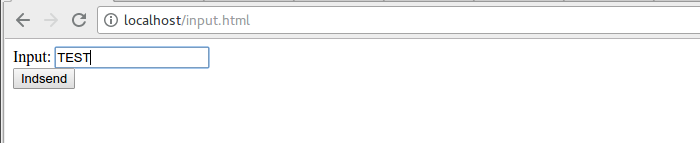
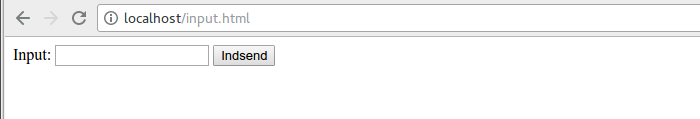
1

diff --git a/programmering/php04_valg_og_funktioner.html b/programmering/php04_valg_og_funktioner.html
@@ -1,0 +1,233 @@
+<!DOCTYPE html>
+<html lang="en">
+<head>
+  <title>Vidas.dk</title>
+  <meta charset="utf-8">
+  <meta name="viewport" content="width=device-width, initial-scale=1">
+  
+  <link href='http://fonts.googleapis.com/css?family=Ubuntu+Mono|Ubuntu|Ubuntu+Condensed' rel='stylesheet' type='text/css'>
+
+  <link rel="stylesheet" href="../css/bootstrap.min.css">
+  <link rel="stylesheet" href="../css/jquery-ui.min.css">
+  <link rel="stylesheet" href="../css/jquery.tocify.css">
+  <link rel="stylesheet" href="../css/style_new.css" />
+<!-- Scripts in bottom to speed up pageload-->
+ 
+
+</head>
+<body>
+	
+	
+<div class="container-fluid">
+
+<div class="row-fluid">
+	
+<div class="col-sm-3">
+	
+	<div id="toc">
+	
+		<div id="toc_headline"></div>
+	
+	</div>
+
+</div><!-- Start slut 1. kolonne - TOC -->
+	
+<div class="col-sm-9">
+	
+	<img class="p25" src="images/PHP-logo.svg" alt="" title="" />
+	
+	<div class="title">Valg og funktioner</div>
+
+<h1>Valg</h1>
+
+<p>Når vi skal have PHP til at reagere på forskellige tilfælde (conditions), kan vi anvende 3 forskellige tilgange:</p>
+
+<ul class="none">
+	<li>Case-struktur</li>
+	<li>if/else-struktir</li>
+</ul>
+
+<p>Herunder vil jeg vise hvordan de anvendes i en simpel situation, hvor en brugers svar skal bruges. Konkret skal brugeren svare på om han er en mand eller kvinde.  Der skal svaret <span class="inl_cmd">1</span> for mand og <span class="inl_cmd">2</span> for kvinde.</p>
+
+	
+<h2>Switch</h2>
+
+<p>Når man sætter betingelserne op på denne måde opretter man en case for hver situation. Hvis a så ..., hvis b så ..., hvis c så ... osv. Lad os se et eksempel:</p>
+
+<pre><code class="php">
+&lt;?php
+
+$input = $_GET["input"];
+
+switch ($input) {
+	case "1":
+		echo "Du er en dreng";
+		break;
+	case "2":
+		echo "Du er en pige";
+		break;
+	default:
+		echo "Du har vist skrevet forkert";
+
+	}
+
+?>
+</code>
+</pre>
+
+<p>Inde i switchen (kontakten) har vi oprettet 3 cases. En hvor man er en dreng, en hvor man er en pige og en hvor man har skrevet forkert.</p>
+
+<p>Læg mærke til at der kommer et <span class="inl_cmd">break</span> inde i hver case. Et <span class="inl_cmd">break</span> gør, at den del af programmet der kører lige nu bliver afbrudt. I dette tilfælde switch()</p>
+
+<p>Denne måde at kode på kan altså grundlæggende skrives som</p>
+
+<pre>
+switch (** det som undersøges **) {
+
+	case ** betingelse 1 **:
+		** gør noget **
+		break;
+
+	case ** betingelse 2 **:
+		** gør noget andet**
+		break;
+	
+	.
+	.
+	.
+
+	default:
+		** gør noget tredie **
+
+	}
+?>
+</pre>
+
+<p>Koden går altså ind og efterprøver om den enkelte case er sand eller ej. Vi kan sætte lige så mange cases på som vi har behov for, blot den sidste er <span class="inl_cmd">default</span>.</p>
+
+<p>Fordelen ved denne metode er overblikket</p>	
+	
+<h2>If/else</h2>
+
+<p>En anden måde at gøre det samme er ved hjælp af en if/else struktur. Den samme problemstilling som ovenfor vil se ud som her:</p>
+
+<pre><code class="php">
+&lt;?php
+
+$input = $_GET["input"];
+		
+if ($input == 1) {
+	echo "Det er en dreng";
+	} 
+	elseif ($input == 2) {
+		echo "Det er en pige";
+		}
+
+	else {
+		echo "du har vist skrevet forkert";
+		}
+
+?>
+</code>
+</pre>
+
+<p>Egentlig er tankegangen den samme her, men læg mærke til at vi ikke skal <span class="inl_cmd">breake</span> funktionen. Det gør den af sig selv.</p>
+
+<p>Vi kan altså opstille if/else på følgende måde:</p>
+
+<pre><code class="php">
+if (betingelse_1) { 
+	** Gør noget **}<br />
+	elseif (betingelse_2) {
+		** Gør noget andet **; }<br />
+	.
+	.
+	.
+	
+	else {
+		** Gør noget tredie **; }	
+</code>
+</pre>
+
+<p>Koden går også her ind og efterprøver om den enkelte betingelse er sand eller ej. Vi kan sætte lige så mange <span class="inl_cmd">elseif</span> på som vi har behov for, blot den sidste er en <span class="inl_cmd">else</span>.</p>
+
+<h2>Indlejring</h2>
+
+<p>Man kan også indlejre dem i hinanden i lige så mange lag som man vil. Man kan have:</p>
+
+<ul class="none">
+	<li>swithes i swithes</li>
+	<li>switches i if/else</li>
+	<li>if/else i switches</li>
+</ul>
+
+<p>En analogi kan være et bibliotek - med bogreoler - med bøger - med sider - med ord - med bogstaver.</p>
+
+<p>Det eneste man skal huske på er, at det skal give mening. For man risikerer at lave koden så kompleks at man ikke kan overskue den mere. Gør ikke koden mere kompleks end andre også kan sætte sig ind i den.</p>
+
+<h2>Cases eller if/else</h2>
+
+<p>Det afgørende handler om overblik og effektivitet. Generelt vil jeg anbefale at man anvender if/else bla. fordi der er mindre skrive arbejde i den, men især fordi den mere logisk tvinger os til at opdele det vi arbejder med.</p>
+
+
+
+<h1>Funktioner</h1>
+	
+</div><!-- end: col-md-9 -->
+
+<footer>
+
+	<p><a rel="license" href="http://creativecommons.org/licenses/by-nc-sa/4.0/"><img alt="Creative Commons licens" src="https://i.creativecommons.org/l/by-nc-sa/4.0/88x31.png" /></a>Indholdet på Vidas.dk er licenseret under <a rel="license" href="http://creativecommons.org/licenses/by-nc-sa/4.0/">CC BY-NC-SA 4.0</a> og er skrevet af Thomas Jensen. (<a href="../hvem_er_jeg.html" target="_blank">Læs mere</a>)</p>
+
+</footer>
+	
+	
+</div><!-- end: row-fluid -->
+
+</div> <!-- end: container-fluid -->
+
+
+<!-- SCRIPT SECTION -->
+<script type="text/javascript" src="../js/jquery.min.js"></script>
+<script type="text/javascript" src="../js/jquery-ui.min.js"></script>
+<script type="text/javascript" src="../js/jquery.tocify.min.js"></script>
+<script type="text/javascript" src="../js/bootstrap.min.js"></script>
+
+<!-- PRETTYFY-->
+<script src="https://cdn.rawgit.com/google/code-prettify/master/loader/run_prettify.js"></script>
+
+
+<!-- HIGHLIGHT -->
+	<script src="../js/highlight.pack.js" type="text/javascript"></script>
+	<script>hljs.initHighlightingOnLoad();</script>
+
+<!-- MATHJAX -->
+<script type="text/javascript" 
+	src="https://cdn.mathjax.org/mathjax/latest/MathJax.js?config=TeX-MML-AM_CHTML">
+</script>
+
+<script type="text/x-mathjax-config">
+MathJax.Hub.Config({
+  displayAlign: "left",
+  displayIndent: "0em"
+});
+</script>
+
+
+<!-- TOCIFY -->
+<script>
+	$(function() {var toc = $("#toc").tocify({ selectors: "h1, h2, h3, h4" }).data("toc-tocify"); });
+</script>
+<!-- GOOGLE ANALYTICS -->
+<script>
+  (function(i,s,o,g,r,a,m){i['GoogleAnalyticsObject']=r;i[r]=i[r]||function(){
+  (i[r].q=i[r].q||[]).push(arguments)},i[r].l=1*new Date();a=s.createElement(o),
+  m=s.getElementsByTagName(o)[0];a.async=1;a.src=g;m.parentNode.insertBefore(a,m)
+  })(window,document,'script','https://www.google-analytics.com/analytics.js','ga');
+
+  ga('create', 'UA-89933285-1', 'auto');
+  ga('send', 'pageview');
+</script>
+
+</body>
+</html>

diff --git a/programmering/php03a_input.html b/programmering/php03a_input.html
@@ -56,7 +56,7 @@
 <pre>
 	<code class="html">
 &lt;form action="output.php" method="GET">
-	Input: &lt;input type="text" name="input">&lt;br>
+	Input: &lt;input type="text" name="input">
 	&lt;input type="submit" >
 &lt;/form>
 	</code>
@@ -101,6 +101,11 @@
 	<figcaption></figcaption>
 
 </figure>
+
+<p>Det som sker er, at browseren sender ordet <span class="inl_cmd">TEST</span> til serveren når man trykker på <span class="knap">Indsend</span>. Samtidig åbner browseren en ny side nemlig <span class="inl_cmd">output.php</span>. Det indstiller man i linien: <span class="inl_cmd">&lt;form <span class="red">action="output.php"</span> method="GET"></span>. Skulle <span class="inl_cmd">Indsend</span> aktivere andre sider skulle vi erstatte <span class="inl_cmd">output.php</span> med en anden PHP-side.</p>
+
+<p>Det er det som gør PHP til et specielt og meget anvendeligt programmeringssprog er netop, at det er designet til web. Og det specielle er også at data bliver sendt til serveren, som så den kan behandle data.</p>
+
 
 <h1>GET vs POST</h1>
 
@@ -162,7 +167,7 @@ Input: &lt;input type="text" name="input">
 
 </figure>
 
-<p>I det vi trykker <span class="knap">Indsend</span>, så sender browseren variablen <span class="inl_cmd">input</span> til serveren, som åbner den den samme side igen (<span class="inl_cmd">action="input2.php"</span>). Når browseren læser siden, så:</p>
+<p>I det vi trykker <span class="knap">Indsend</span>, sender browseren variablen <span class="inl_cmd">input</span> til serveren, som åbner den den samme side igen (<span class="inl_cmd">action="input2.php"</span>). Når browseren læser siden, så:</p>
 
 <ol class="">
 	<li>Viser den HTML koden</li>
@@ -170,6 +175,14 @@ Input: &lt;input type="text" name="input">
 	<li>Serveren svarer ja og leverer variablen tilbage til browseren</li>
 	<li><span class="inl_cmd">isset()</span> kører koden den har indlejret</li>
 </ol>
+
+<p>Egentlig har vi her foregrebet det som næste kapitel handler - nemlig at vi kan køre kode hvis (if) visse betingelser er opfyldt.</p>
+
+<h1>Hvilken metode anvender vi.</h1>
+
+<p>I resten af materialet vil vi arbejde videre med 2 filer, simpelthen fordi det giver det største overblik.</p>
+
+<p>I praksis vil man anvende en kombination af de to metoder, fordi man i nogle tilfælde vil have fordel af at lade en bruger blive på samme side. Det kan f.eks. være en loginside, hvor vi ikke ønsker at brugeren skal gå videre før han har brugt et gyldigt login - eller hans forsøg er spildt og vi sender ham videre til en anden side. Hvilket er en problemstilling vi senere vil programmere os ud af ;).</p>
 
 </div><!-- end: col-md-9 -->
 

diff --git a/programmering/programmering_index.html b/programmering/programmering_index.html
@@ -48,9 +48,17 @@
 
 <p><a href="php02_strenge_vaerdier_variabler.html" target="_blank">Strenge og variabler</a></p>
 
-<h2>Tal, operatorer og matematiske funktioner</h2>
+<h2>Tal, operatorer og matematik</h2>
 
-<p><a href="php03_tal_operatorer_og_matematiske_funktioner.html" target="_blank">Tal, operatorer og matematiske funktioner</a></p>
+<p><a href="php03_tal_operatorer_og_matematiske_funktioner.html" target="_blank">Tal, operatorer og matematik</a></p>
+
+<h2>Input</h2>
+
+<p><a href="php03a_input.html" target="_blank">Input</a></p>
+
+<h2>Valg og funktioner</h2>
+
+<p><a href="php04_valg_og_funktioner.html" target="_blank">Valg og funktioner</a></p>
 
 
 <h1>Python</h1>
@@ -63,9 +71,9 @@
 
 <p><a href="python02_Strenge_variabler_og_input.html" target="_blank">Strenge, variabler og input</a></p>
 
-<h2>Tal, operatorer og matematiske operationer</h2>
+<h2>Tal, operatorer og matematik</h2>
 
-<p><a href="python03_tal_operatorer_og_matematiske_funktioner.html" target="_blank">Tal, Operatorere og matematiske funktioner</a></p>
+<p><a href="python03_tal_operatorer_og_matematiske_funktioner.html" target="_blank">Tal, Operatorere og matematik</a></p>
 
 <h2>Valg, funktioner og random()</h2>
 
